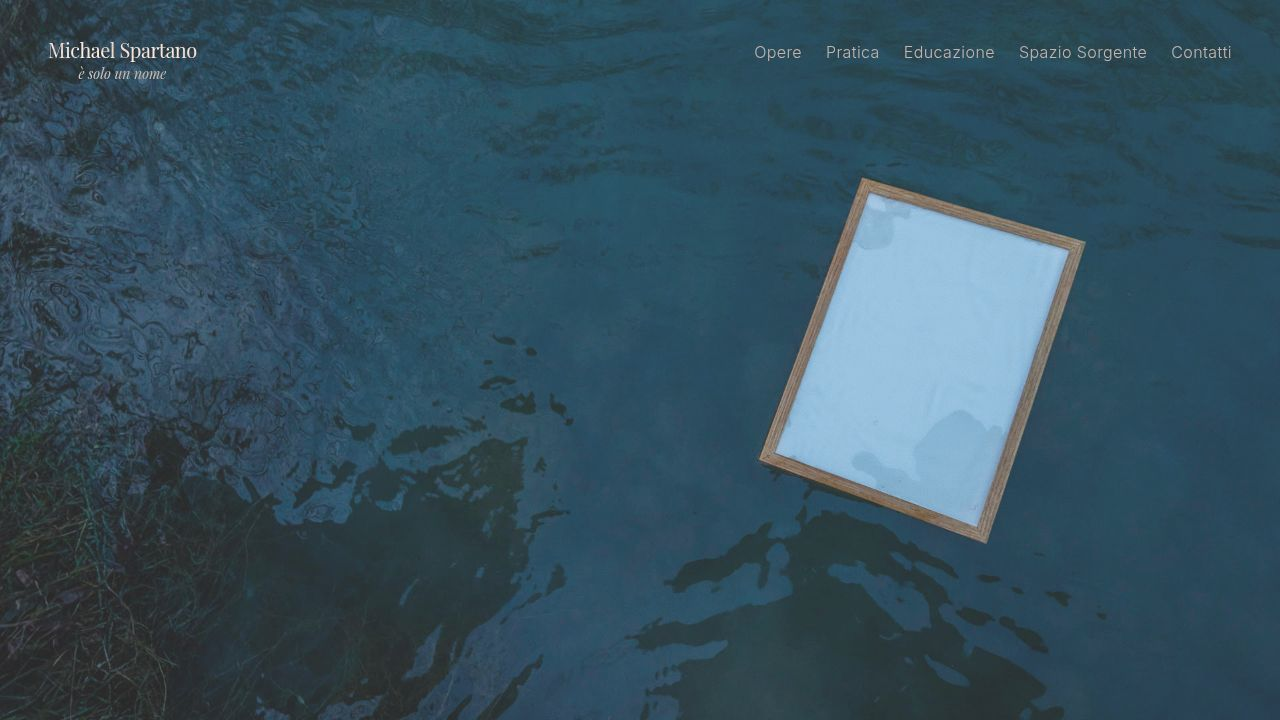
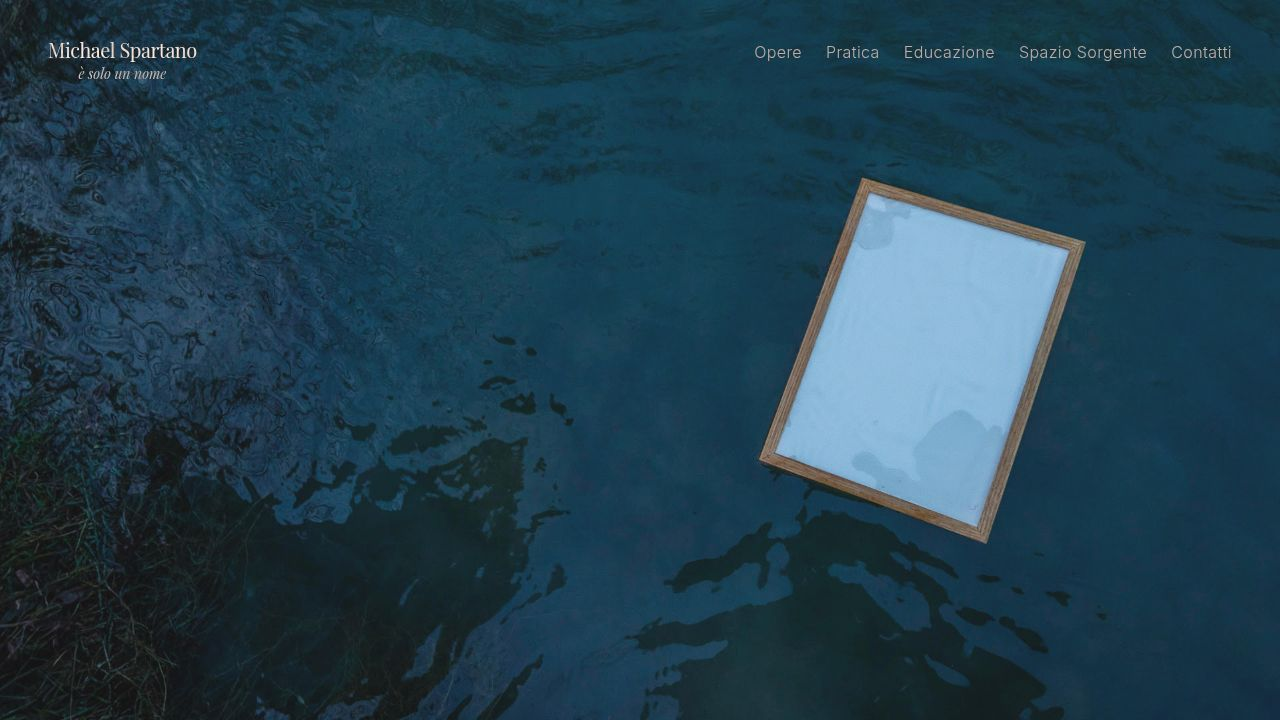
Make dropdown menu items lighter to match main navigation
Update font weight for dropdown menu links in Navigation.tsx to 'font-light' to match the main navigation font weight.

Replit-Commit-Author: Agent
Replit-Commit-Session-Id: 829b82cf-d7dc-4d1d-836f-aa98d7b167b9
Replit-Commit-Checkpoint-Type: full_checkpoint
Replit-Commit-Event-Id: 0aa06153-81c2-41d6-8313-0c5783127d5b
Replit-Commit-Screenshot-Url: https://storage.googleapis.com/screenshot-production-us-central1/dadd5ac2-ca2b-4b58-903d-3f7e6e283ca8/829b82cf-d7dc-4d1d-836f-aa98d7b167b9/eJszrTb
Replit-Helium-Checkpoint-Created: true

Changed region(s): [[0.6562, 0.0611, 0.9688, 0.0917], [0.0312, 0.0306, 0.1562, 0.0917], [0.5625, 0.0611, 0.625, 0.0917]]

diff --git a/client/src/components/Navigation.tsx b/client/src/components/Navigation.tsx
@@ -98,7 +98,7 @@ export function Navigation() {
                       <Link key={subLink.href} href={subLink.href}>
                         <a className={cn(
                           "whitespace-nowrap hover:opacity-100 transition-all duration-200 text-base tracking-wide",
-                          isHome ? "font-medium" : "font-normal hover:font-medium",
+                          isHome ? "font-light" : "font-light hover:font-normal",
                           location === subLink.href 
                             ? "opacity-100 font-bold border-b-2 border-current pb-0.5" 
                             : "opacity-80 hover:translate-x-1"
